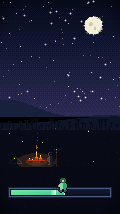
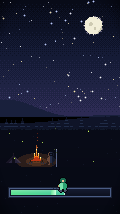
ci: лог сборки smoke [skip ci]

diff --git a/ci-logs/smoke.md b/ci-logs/smoke.md
@@ -1,8 +1,8 @@
 # Лог сборки smoke
 
 - ветка: arena/1ac1f842-idlepixelmmorpg
-- коммит: 6cc14bd6857f9dfef71ea61ab4e2df551059c98a
-- запуск: https://github.com/AlfaGideon/IdlePixelMMORPG/actions/runs/41504749339
+- коммит: 5e3578214eea68c20c473822edbed0b6df9389f2
+- запуск: https://github.com/AlfaGideon/IdlePixelMMORPG/actions/runs/41504889508
 
 ```
 ===== import =====
@@ -55,33 +55,19 @@ Godot Engine v4.7.2.stable.official.ed1daf0bf - https://godotengine.org
 [  16% ] [90m[1mloading_editor_layout[22m | Loading docks...[39m[0m
 [92m[ DONE ][39m [1mloading_editor_layout[22m
 [0m
-SCRIPT ERROR: Parse Error: Identifier "TREE_TIP" not declared in the current scope.
-          at: GDScript::reload (res://ui/pixel_scene.gd:401)
-ERROR: Failed to load script "res://ui/pixel_scene.gd" with error "Parse error".
-   at: load (modules/gdscript/gdscript_resource_format.cpp:46)
 cannot connect to daemon at tcp:5037: Connection refused
-FAIL: import
 ===== run =====
 Godot Engine v4.7.2.stable.official.ed1daf0bf - https://godotengine.org
 
-SCRIPT ERROR: Parse Error: Identifier "TREE_TIP" not declared in the current scope.
-          at: GDScript::reload (res://ui/pixel_scene.gd:401)
-ERROR: Failed to load script "res://ui/pixel_scene.gd" with error "Parse error".
-   at: load (modules/gdscript/gdscript_resource_format.cpp:46)
+pixel_scene: палитра 5 цветов, звёзд 96
+pixel_scene: первый кадр, сетка 120x214
 boot: старт, сцена=true, размер=(1280.0, 1280.0)
-FAIL: run
+pixel_scene: снимок кадра -> res://boot_capture.png (0)
 ===== check client/scripts/boot.gd =====
 Godot Engine v4.7.2.stable.official.ed1daf0bf - https://godotengine.org
 ===== check client/ui/pixel_scene.gd =====
 Godot Engine v4.7.2.stable.official.ed1daf0bf - https://godotengine.org
-
-SCRIPT ERROR: Parse Error: Identifier "TREE_TIP" not declared in the current scope.
-          at: GDScript::reload (res://ui/pixel_scene.gd:401)
-ERROR: Failed to load script "res://ui/pixel_scene.gd" with error "Parse error".
-   at: load (modules/gdscript/gdscript_resource_format.cpp:46)
-FAIL: check client/ui/pixel_scene.gd
 ===== check client/ui/kit.gd =====
 Godot Engine v4.7.2.stable.official.ed1daf0bf - https://godotengine.org
-FAIL: нет отметки «pixel_scene: первый кадр»
-SMOKE FAILED
+SMOKE OK
 ```
